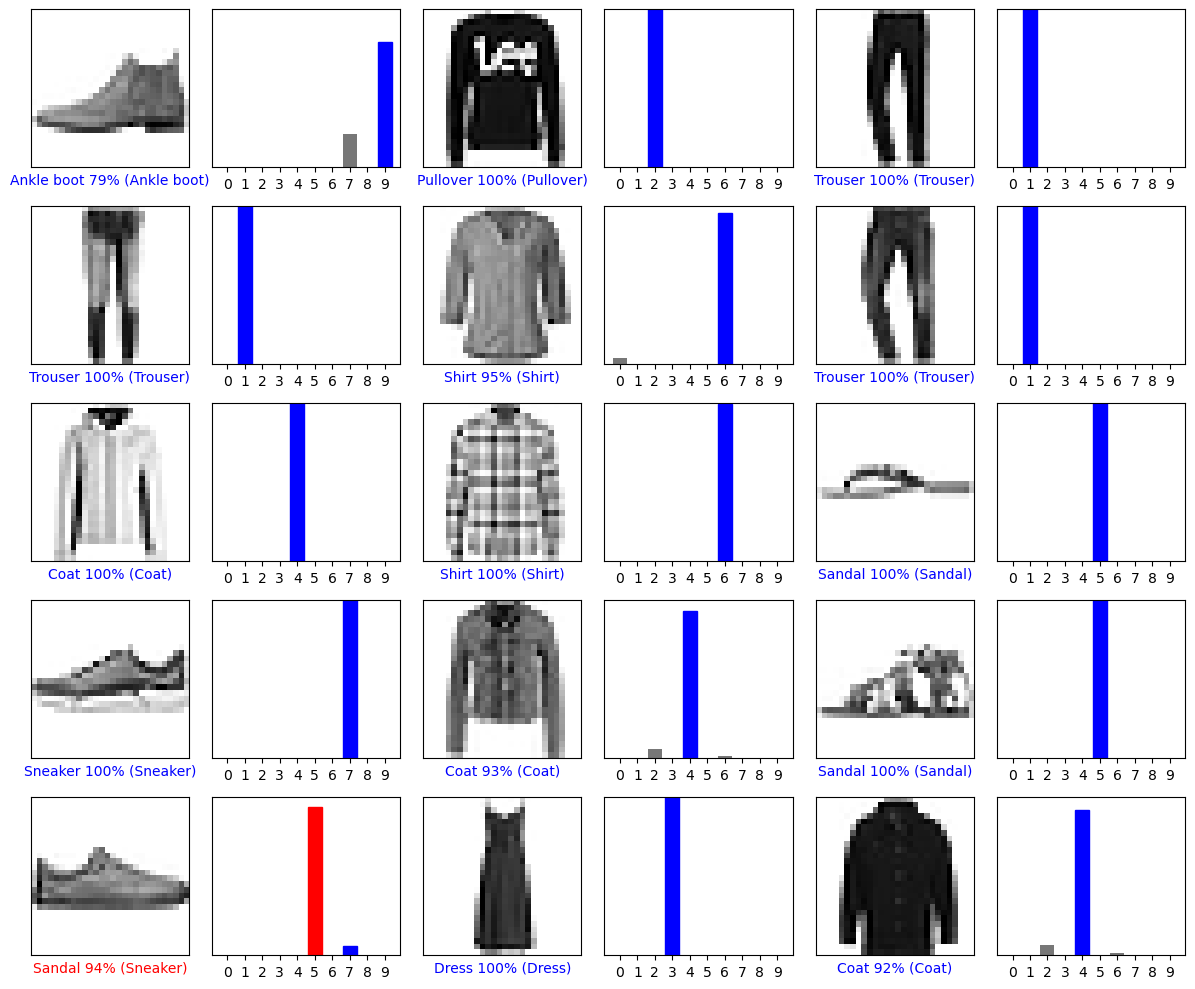
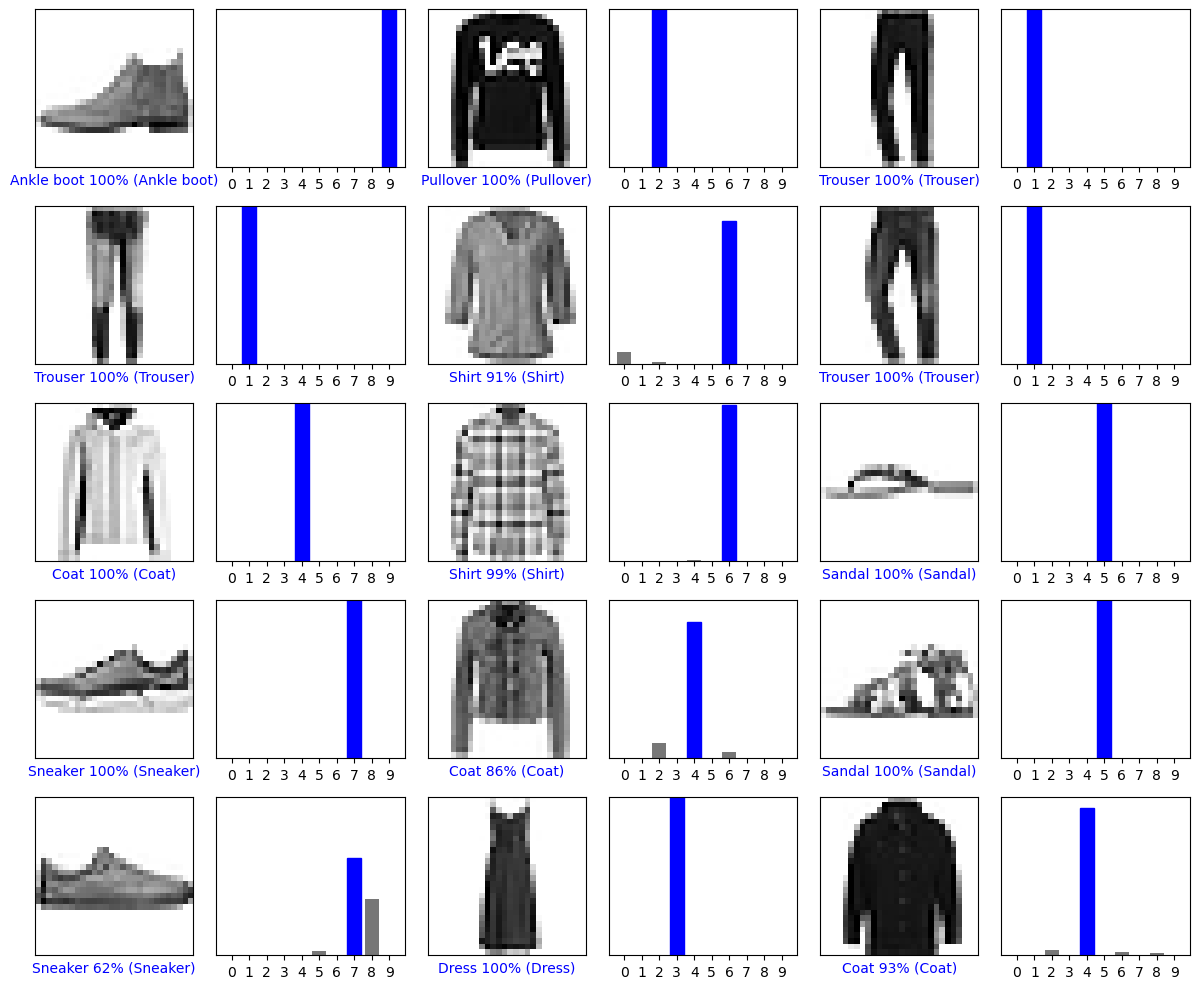
batch script to run mnist model works

diff --git a/HPC/hpc2.py b/HPC/hpc2.py
@@ -1,0 +1,155 @@
+#!/usr/bin/env python3
+
+# Abe Jeyapratap
+# 5/26/2021
+# Modifications on TensorFlow MNIST Classification Model to be run on Picotte, the HPC Cluster
+# Works, but uses tf.keras dataset
+
+import tensorflow as tf
+from tensorflow import keras
+import numpy as np
+import matplotlib.pyplot as plt
+import os
+import gzip
+import time
+# import random
+
+# Function to load data from /beegfs/Sample_TF_Datasets/ parallel scratch storage directory on Picotte
+# def load_mnist(path, kind='train'):
+#     """Load MNIST data from `path`"""
+#     labels_path = os.path.join(path,
+#                                '%s-labels-idx1-ubyte.gz'
+#                                % kind)
+#     images_path = os.path.join(path,
+#                                '%s-images-idx3-ubyte.gz'
+#                                % kind)
+
+#     with gzip.open(labels_path, 'rb') as lbpath:
+#         labels = np.frombuffer(lbpath.read(), dtype=np.uint8,
+#                                offset=8)
+
+#     with gzip.open(images_path, 'rb') as imgpath:
+#         images = np.frombuffer(imgpath.read(), dtype=np.uint8,
+#                                offset=16).reshape(len(labels), 784)
+
+#     return images, labels
+
+
+print()
+print(f"TensorFlow version = {tf.__version__}")
+print(f"Keras version = {keras.__version__}")
+print()
+
+if tf.test.gpu_device_name():
+    print('Connected to GPU(s)', tf.test.gpu_device_name())
+else:
+    print('Not connected to GPU')
+print()
+
+# Load data
+# train_images, train_labels = load_mnist('/beegfs/Sample_TF_Datasets/Fashion_MNIST', kind='train')
+# test_images, test_labels = load_mnist('/beegfs/Sample_TF_Datasets/Fashion_MNIST', kind='t10k')
+fashion_mnist = tf.keras.datasets.fashion_mnist
+(train_images, train_labels), (test_images,
+                               test_labels) = fashion_mnist.load_data()
+
+class_names = ['T-shirt/top', 'Trouser', 'Pullover', 'Dress', 'Coat',
+               'Sandal', 'Shirt', 'Sneaker', 'Bag', 'Ankle boot']
+
+# Data Exploration: Check Shape
+print(f'train_images.shape = {train_images.shape}')
+print(f'train_labels.shape = {train_labels.shape}')
+print(f'test_images.shape = {test_images.shape}')
+print(f'test_labels.shape = {test_labels.shape}')
+print()
+
+# convert values to between 0 and 1
+train_images = train_images / 255.0
+test_images = test_images / 255.0
+
+# instansitate the model by stacking the layers on top of each other
+model = tf.keras.Sequential([
+    tf.keras.layers.Flatten(input_shape=(28, 28)),
+    # create network of 128 neurons
+    tf.keras.layers.Dense(128, activation='relu'),
+    tf.keras.layers.Dense(10)  # create network of 10
+])
+
+# create the model by passing in an optimizer, loss function and metric
+model.compile(optimizer='adam', loss=tf.keras.losses.SparseCategoricalCrossentropy(from_logits=True),
+              metrics=['accuracy'])
+
+# fit the model with the data
+print('Training starting...')
+tic = time.perf_counter()
+model.fit(train_images, train_labels, epochs=10)
+toc = time.perf_counter()
+print()
+print(f'Training completed in {toc - tic:0.4f} seconds')
+print()
+
+# save the model
+# tf.keras.models.save_model(model, 'recognition_model.hdf5')
+
+# test the model
+test_loss, test_accuracy = model.evaluate(test_images, test_labels, verbose=2)
+print('\nTest accuracy:', test_accuracy)
+
+probability_model = tf.keras.Sequential([
+    model,
+    tf.keras.layers.Softmax()  # logits to find probabilities
+])
+
+# Make Predictions
+predictions = probability_model.predict(test_images)
+predicted_label = np.argmax(predictions)  # select max from the values returned
+print(test_labels[0])  # actual labels for the values
+
+# Graph
+def plot_image(i, predictions_array, true_label, img):
+    true_label, img = true_label[i], img[i]
+    plt.grid(False)
+    plt.xticks([])
+    plt.yticks([])
+
+    plt.imshow(img, cmap=plt.cm.binary)
+
+    predicted_label = np.argmax(predictions_array)
+    if predicted_label == true_label:
+        color = 'blue'
+    else:
+        color = 'red'
+
+    plt.xlabel("{} {:2.0f}% ({})".format(class_names[predicted_label],
+                                         100*np.max(predictions_array),
+                                         class_names[true_label]),
+               color=color)
+
+
+def plot_value_array(i, predictions_array, true_label):
+    true_label = true_label[i]
+    plt.grid(False)
+    plt.xticks(range(10))
+    plt.yticks([])
+    thisplot = plt.bar(range(10), predictions_array, color="#777777")
+    plt.ylim([0, 1])
+    predicted_label = np.argmax(predictions_array)
+
+    thisplot[predicted_label].set_color('red')
+    thisplot[true_label].set_color('blue')
+
+
+num_rows = 5
+num_cols = 3
+num_images = num_rows * num_cols
+fig = plt.figure(figsize=(2*2*num_cols, 2*num_rows))
+for i in range(num_images):
+    plt.subplot(num_rows, 2*num_cols, 2*i+1)
+    plot_image(i, predictions[i], test_labels, test_images)
+    plt.subplot(num_rows, 2*num_cols, 2*i+2)
+    plot_value_array(i, predictions[i], test_labels)
+    plt.tight_layout()
+# plt.show()
+# Save the plotted model as a PNG
+plt.savefig('verification.png', bbox_inches='tight')
+plt.close(fig)

diff --git a/HPC/picotte/hpc.py b/HPC/picotte/hpc.py
@@ -1,25 +1,58 @@
+#!/usr/bin/env python3
+
 # Abe Jeyapratap
-# 5/25/2021
-# Modifications on TensorFlow MNIST Classification Model to be run locally
+# 5/27/2021
+# Modifications on TensorFlow MNIST Classification Model to be run on Picotte, the HPC Cluster
+# Uses Picotte's Fasion MNIST dataset
 
 import tensorflow as tf
+from tensorflow import keras
 import numpy as np
 import matplotlib.pyplot as plt
+import os
+import gzip
+import time
+# import random
+
+# Function to load data from /beegfs/Sample_TF_Datasets/ parallel scratch storage directory on Picotte
+def load_mnist(path, kind='train'):
+    """Load MNIST data from `path`"""
+    labels_path = os.path.join(path,
+                               '%s-labels-idx1-ubyte.gz'
+                               % kind)
+    images_path = os.path.join(path,
+                               '%s-images-idx3-ubyte.gz'
+                               % kind)
+
+    with gzip.open(labels_path, 'rb') as lbpath:
+        labels = np.frombuffer(lbpath.read(), dtype=np.uint8,
+                               offset=8)
+
+    with gzip.open(images_path, 'rb') as imgpath:
+        images = np.frombuffer(imgpath.read(), dtype=np.uint8,
+                               offset=16).reshape(len(labels), 784)
+
+    return images, labels
+
 
 print()
 print(f"TensorFlow version = {tf.__version__}")
+print(f"Keras version = {keras.__version__}")
 print()
 
 if tf.test.gpu_device_name():
-    print('Connected to GPU(s)', tf.test.gpu_device_name())
+    print('\nConnected to GPU(s)', tf.test.gpu_device_name())
+    physical_devices = tf.config.experimental.list_physical_devices('GPU')
+    print("\nNum GPUs:", len(physical_devices))
 else:
-    print('Not connected to GPU')
+    print('\nNOT connected to GPU')
+    physical_devices = tf.config.experimental.list_physical_devices('CPU')
+    print("\nNum CPUs:", len(physical_devices))
 print()
 
 # Load data
-fashion_mnist = tf.keras.datasets.fashion_mnist
-(train_images, train_labels), (test_images,
-                               test_labels) = fashion_mnist.load_data()
+train_images, train_labels = load_mnist('/beegfs/Sample_TF_Datasets/Fashion_MNIST', kind='train')
+test_images, test_labels = load_mnist('/beegfs/Sample_TF_Datasets/Fashion_MNIST', kind='t10k')
 
 class_names = ['T-shirt/top', 'Trouser', 'Pullover', 'Dress', 'Coat',
                'Sandal', 'Shirt', 'Sneaker', 'Bag', 'Ankle boot']
@@ -37,9 +70,8 @@ test_images = test_images / 255.0
 
 # instansitate the model by stacking the layers on top of each other
 model = tf.keras.Sequential([
-    tf.keras.layers.Flatten(input_shape=(28, 28)),
+    # Deleted Flatten() layer since loaded data is already flattened into 784 (instead of 28x28)
     # create network of 128 neurons
-    tf.keras.layers.Dense(128, activation='relu'),
     tf.keras.layers.Dense(128, activation='relu'),
     tf.keras.layers.Dense(10)  # create network of 10
 ])
@@ -49,7 +81,13 @@ model.compile(optimizer='adam', loss=tf.keras.losses.SparseCategoricalCrossentro
               metrics=['accuracy'])
 
 # fit the model with the data
+print('Training starting...')
+tic = time.perf_counter()
 model.fit(train_images, train_labels, epochs=10)
+toc = time.perf_counter()
+print()
+print(f'Training completed in {toc - tic:0.4f} seconds')
+print()
 
 # save the model
 # tf.keras.models.save_model(model, 'recognition_model.hdf5')
@@ -69,8 +107,6 @@ predicted_label = np.argmax(predictions)  # select max from the values returned
 print(test_labels[0])  # actual labels for the values
 
 # Graph
-
-
 def plot_image(i, predictions_array, true_label, img):
     true_label, img = true_label[i], img[i]
     plt.grid(False)
@@ -103,19 +139,20 @@ def plot_value_array(i, predictions_array, true_label):
     thisplot[predicted_label].set_color('red')
     thisplot[true_label].set_color('blue')
 
+# Loaded images from Picotte are 784; reshape to 28x28 for plotting
+test_images_reshaped = np.reshape(test_images, (test_images.shape[0], 28, 28))
 
 num_rows = 5
 num_cols = 3
-num_images = num_rows*num_cols
-# plt.figure(figsize=(2*2*num_cols, 2*num_rows))
+num_images = num_rows * num_cols
 fig = plt.figure(figsize=(2*2*num_cols, 2*num_rows))
 for i in range(num_images):
     plt.subplot(num_rows, 2*num_cols, 2*i+1)
-    plot_image(i, predictions[i], test_labels, test_images)
+    plot_image(i, predictions[i], test_labels, test_images_reshaped)
     plt.subplot(num_rows, 2*num_cols, 2*i+2)
     plot_value_array(i, predictions[i], test_labels)
-    plt.tight_layout()
+plt.tight_layout()
 # plt.show()
-# Save the output as a PNG
-plt.savefig('./HPC/verification.png', bbox_inches='tight')
+# Save the plotted model as a PNG
+plt.savefig('verification.png', bbox_inches='tight')
 plt.close(fig)

diff --git a/HPC/local.py b/HPC/local.py
@@ -1,49 +1,31 @@
 # Abe Jeyapratap
 # 5/25/2021
-# Modifications on TensorFlow MNIST Classification Model to be run on Picotte, the HPC Cluster
+# Modifications on TensorFlow MNIST Classification Model to be run locally
 
 import tensorflow as tf
+from tensorflow import keras
 import numpy as np
 import matplotlib.pyplot as plt
-import os
-import gzip
-import time
-# import random
-
-# Function to load data from /beegfs/Sample_TF_Datasets/ parallel scratch storage directory on Picotte
-def load_mnist(path, kind='train'):
-    """Load MNIST data from `path`"""
-    labels_path = os.path.join(path,
-                               '%s-labels-idx1-ubyte.gz'
-                               % kind)
-    images_path = os.path.join(path,
-                               '%s-images-idx3-ubyte.gz'
-                               % kind)
-
-    with gzip.open(labels_path, 'rb') as lbpath:
-        labels = np.frombuffer(lbpath.read(), dtype=np.uint8,
-                               offset=8)
-
-    with gzip.open(images_path, 'rb') as imgpath:
-        images = np.frombuffer(imgpath.read(), dtype=np.uint8,
-                               offset=16).reshape(len(labels), 784)
-
-    return images, labels
-
 
 print()
 print(f"TensorFlow version = {tf.__version__}")
-print()
+print(f"Keras version = {keras.__version__}")
+# print(len(tf.config.experimental.list_physical_devices(device_type=None)))
 
 if tf.test.gpu_device_name():
     print('Connected to GPU(s)', tf.test.gpu_device_name())
+    physical_devices = tf.config.experimental.list_physical_devices('GPU')
+    print("\nNum GPUs:", len(physical_devices))
 else:
-    print('Not connected to GPU')
+    print('NOT connected to GPU')
+    physical_devices = tf.config.experimental.list_physical_devices('CPU')
+    print("\nNum CPUs:", len(physical_devices))
 print()
 
 # Load data
-train_images, train_labels = load_mnist('/beegfs/Sample_TF_Datasets/Fashion_MNIST', kind='train')
-test_images, test_labels = load_mnist('/beegfs/Sample_TF_Datasets/Fashion_MNIST', kind='t10k')
+fashion_mnist = tf.keras.datasets.fashion_mnist
+(train_images, train_labels), (test_images,
+                               test_labels) = fashion_mnist.load_data()
 
 class_names = ['T-shirt/top', 'Trouser', 'Pullover', 'Dress', 'Coat',
                'Sandal', 'Shirt', 'Sneaker', 'Bag', 'Ankle boot']
@@ -64,7 +46,7 @@ model = tf.keras.Sequential([
     tf.keras.layers.Flatten(input_shape=(28, 28)),
     # create network of 128 neurons
     tf.keras.layers.Dense(128, activation='relu'),
-    tf.keras.layers.Dense(128, activation='relu'),
+    # tf.keras.layers.Dense(128, activation='relu'),
     tf.keras.layers.Dense(10)  # create network of 10
 ])
 
@@ -73,13 +55,7 @@ model.compile(optimizer='adam', loss=tf.keras.losses.SparseCategoricalCrossentro
               metrics=['accuracy'])
 
 # fit the model with the data
-print('Training starting...')
-tic = time.perf_counter()
 model.fit(train_images, train_labels, epochs=10)
-toc = time.perf_counter()
-print()
-print(f'Training completed in {toc - tic:0.4f} seconds')
-print()
 
 # save the model
 # tf.keras.models.save_model(model, 'recognition_model.hdf5')
@@ -99,6 +75,8 @@ predicted_label = np.argmax(predictions)  # select max from the values returned
 print(test_labels[0])  # actual labels for the values
 
 # Graph
+
+
 def plot_image(i, predictions_array, true_label, img):
     true_label, img = true_label[i], img[i]
     plt.grid(False)
@@ -134,15 +112,16 @@ def plot_value_array(i, predictions_array, true_label):
 
 num_rows = 5
 num_cols = 3
-num_images = num_rows * num_cols
+num_images = num_rows*num_cols
+# plt.figure(figsize=(2*2*num_cols, 2*num_rows))
 fig = plt.figure(figsize=(2*2*num_cols, 2*num_rows))
 for i in range(num_images):
     plt.subplot(num_rows, 2*num_cols, 2*i+1)
     plot_image(i, predictions[i], test_labels, test_images)
     plt.subplot(num_rows, 2*num_cols, 2*i+2)
     plot_value_array(i, predictions[i], test_labels)
-plt.tight_layout()
+    plt.tight_layout()
 # plt.show()
-# Save the plotted model as a PNG
-plt.savefig('/home/aj928/mnist/verification.png', bbox_inches='tight')
+# Save the output as a PNG
+plt.savefig('./HPC/verification.png', bbox_inches='tight')
 plt.close(fig)
